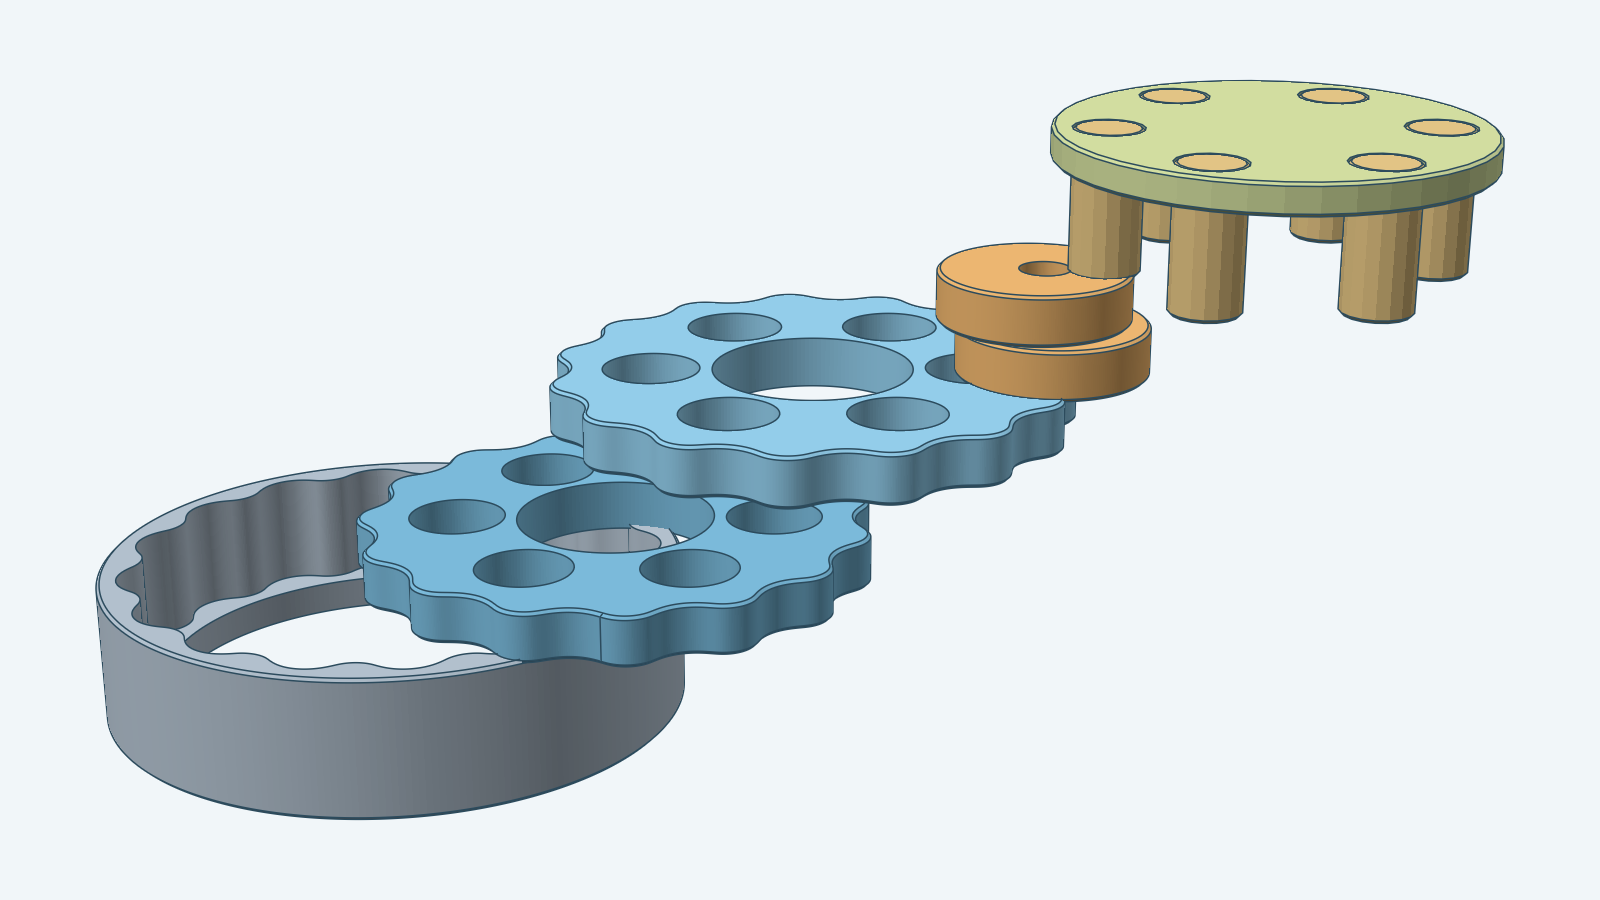
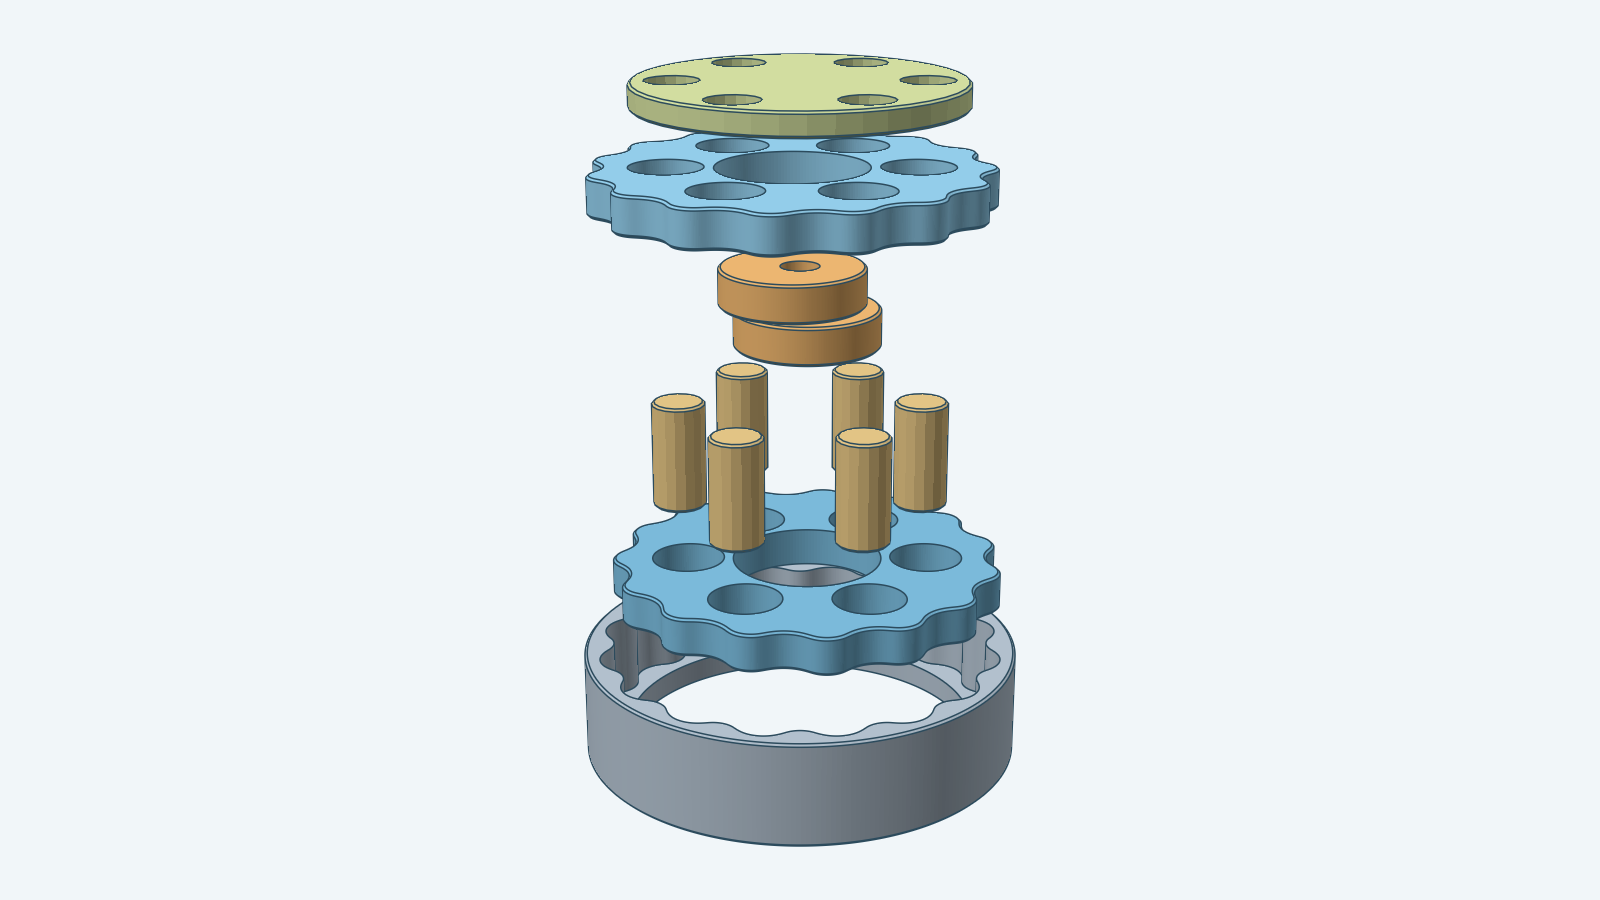
derive cycloidal exploded view from parts set

diff --git a/models/cycloidal/set.go b/models/cycloidal/set.go
@@ -1,0 +1,81 @@
+package cycloidal
+
+import (
+	"context"
+	"fmt"
+
+	"github.com/lestrrat-3d/decad"
+	"github.com/lestrrat-3d/decad/parts"
+	"github.com/lestrrat-3d/r3"
+	"github.com/lestrrat-3d/units"
+)
+
+// explodeGap is how far past touching each part of the exploded view sits from the part it clears.
+const explodeGap = 12.0
+
+// Set returns the drive as a parts.Set over doc, which must be the document Build used with p: every part with its
+// material (all printed in PLA) and the joints between them. A in a joint is the part that goes in and B the part it
+// goes into. The set feeds Drive.Explode.
+func (d Drive) Set(doc *decad.Document, p Params) (*parts.Set, error) {
+	frame, err := placement(p)
+	if err != nil {
+		return nil, fmt.Errorf("cycloidal: placement: %w", err)
+	}
+	set := parts.NewSet(doc)
+	for _, nb := range d.Named() {
+		part := parts.Part{Name: nb.Name, Kind: parts.Manufactured, Body: nb.Body, Material: parts.Material{Name: "PLA"}}
+		if err := set.Add(part); err != nil {
+			return nil, fmt.Errorf("cycloidal: add %s to the parts set: %w", nb.Name, err)
+		}
+	}
+	for _, j := range d.joints(p, frame) {
+		if err := set.Join(j); err != nil {
+			return nil, fmt.Errorf("cycloidal: join %s: %w", j.Name, err)
+		}
+	}
+	return set, nil
+}
+
+// joints lists the connections of the assembled drive with each axis stated in world coordinates, all along the
+// placement normal. Each disc orbits in the housing and on the cam, and each output pin is pressed into its socket in
+// the output plate and passes through every disc's output hole. A disc's fits are wider than a press fit and declare
+// no clearance; the pin's socket declares socketClearance.
+func (d Drive) joints(p Params, frame r3.Frame) []parts.Joint {
+	r := &run{p: p, d: resolve(p), frame: frame}
+	axisAt := func(x, y float64) parts.Axis {
+		point := frame.Origin().Add(frame.U().Scale(x)).Add(frame.V().Scale(y))
+		return parts.Axis{Point: point, Dir: frame.N()}
+	}
+	var js []parts.Joint
+	pin := func(name, a, b string, axis parts.Axis, motion parts.Motion, clearance units.Value) {
+		js = append(js, parts.Joint{Name: name, Kind: parts.PinInBore, A: a, B: b, Axis: &axis, Motion: motion,
+			Clearance: clearance})
+	}
+	none := units.Value{}
+	for i := range d.Discs {
+		disc := DiscName(i)
+		cx, _ := r.discGeometry(i)
+		pin(disc+" in the housing", disc, HousingName, axisAt(0, 0), parts.Turns, none)
+		pin(CamName+" in "+disc, CamName, disc, axisAt(cx, 0), parts.Turns, none)
+	}
+	for j := range d.OutputPins {
+		c := r.outputPinCenter(j)
+		at := axisAt(c.x, c.y)
+		name := OutputPinName(j)
+		pin(name+" in the output plate", name, OutputPlateName, at, parts.Fixed, units.Millimeters(socketClearance))
+		for i := range d.Discs {
+			pin(fmt.Sprintf("%s through %s", name, DiscName(i)), name, DiscName(i), at, parts.Turns, none)
+		}
+	}
+	return js
+}
+
+// Explode pulls the drive apart along its axis with parts.Set.Explode in Decad's derived mode. set must be this
+// drive's Set over the document Build used. The housing stays put. Decad reads from the tessellated bodies which
+// parts stand in the way of which along each direction, takes the parts off in rounds, and lays the rounds out
+// with the round removed last nearest the housing. Every part leaves along the drive's axis and ends explodeGap
+// beyond the parts it clears. The layout is a picture, not a proven assembly sequence.
+func (d Drive) Explode(ctx context.Context, set *parts.Set) (*parts.Exploded, error) {
+	return set.Explode(ctx, parts.WithDerivedExplode(), parts.WithExplodeGround(HousingName),
+		parts.WithExplodeGap(units.Millimeters(explodeGap)))
+}

diff --git a/tools/render/cycloidal.go b/tools/render/cycloidal.go
@@ -12,18 +12,6 @@ import (
 	"github.com/lestrrat-3d/units"
 )
 
-// cycloidalLayout is the exploded layout of the two-disc drive. Each part moves along a staircase 34 mm along
-// X and 16 mm along Z per step.
-var cycloidalLayout = map[string]int{
-	cycloidal.HousingName:     -2,
-	cycloidal.DiscName(0):     -1,
-	cycloidal.DiscName(1):     0,
-	cycloidal.CamName:         1,
-	cycloidal.OutputPlateName: 2,
-}
-
-var cycloidalStep = r3.NewVec(34, 0, 16)
-
 var cycloidalColors = map[string]solidlens.Color{
 	cycloidal.HousingName:     solidlens.RGB(0.38, 0.45, 0.52),
 	cycloidal.DiscName(0):     solidlens.RGB(0.17, 0.42, 0.6),
@@ -91,10 +79,15 @@ func init() {
 	}
 }
 
-func buildCycloidalDrive(ctx context.Context) (cycloidal.Drive, error) {
+// cycloidalParams are the parameters of the two-disc drive every cycloidal image shows.
+func cycloidalParams() cycloidal.Params {
 	params := cycloidal.DefaultParams()
 	params.DiscCount = 2
-	drive, err := cycloidal.Build(ctx, decad.New(decad.WithChainTolerance(units.Millimeters(0.1))), params)
+	return params
+}
+
+func buildCycloidalDrive(ctx context.Context) (cycloidal.Drive, error) {
+	drive, err := cycloidal.Build(ctx, decad.New(decad.WithChainTolerance(units.Millimeters(0.1))), cycloidalParams())
 	if err != nil {
 		return cycloidal.Drive{}, fmt.Errorf("build cycloidal drive: %w", err)
 	}
@@ -121,17 +114,35 @@ func cycloidalBodyModel(ctx context.Context, named cycloidal.NamedBody, offset r
 	}, nil
 }
 
+// cycloidalExplodedOffsets returns how far the exploded view moves each body of drive, by part name. The offsets come
+// from parts.Set.Explode in Decad's derived mode, which Drive.Explode runs.
+func cycloidalExplodedOffsets(ctx context.Context, drive cycloidal.Drive) (map[string]r3.Vec, error) {
+	set, err := drive.Set(drive.Housing.Document(), cycloidalParams())
+	if err != nil {
+		return nil, fmt.Errorf("set up cycloidal parts: %w", err)
+	}
+	layout, err := drive.Explode(ctx, set)
+	if err != nil {
+		return nil, fmt.Errorf("explode cycloidal drive: %w", err)
+	}
+	offsets := make(map[string]r3.Vec, len(layout.Parts))
+	for _, part := range layout.Parts {
+		offsets[part.Name] = part.Offset
+	}
+	return offsets, nil
+}
+
 func cycloidalModels(ctx context.Context, drive cycloidal.Drive, exploded bool) ([]solidlens.Model, error) {
+	var offsets map[string]r3.Vec
+	if exploded {
+		var err error
+		if offsets, err = cycloidalExplodedOffsets(ctx, drive); err != nil {
+			return nil, err
+		}
+	}
 	var models []solidlens.Model
 	for _, named := range drive.Named() {
-		var offset r3.Vec
-		if exploded {
-			step, ok := cycloidalLayout[named.Name]
-			if !ok {
-				step = cycloidalLayout[cycloidal.OutputPlateName]
-			}
-			offset = cycloidalStep.Scale(float64(step))
-		}
+		offset := offsets[named.Name]
 		model, err := cycloidalBodyModel(ctx, named, offset)
 		if err != nil {
 			return nil, err

diff --git a/models/cycloidal/set_test.go b/models/cycloidal/set_test.go
@@ -1,0 +1,50 @@
+package cycloidal_test
+
+import (
+	"math"
+	"testing"
+
+	"github.com/lestrrat-3d/decad-gallery/models/cycloidal"
+	"github.com/lestrrat-3d/decad/parts"
+	"github.com/stretchr/testify/require"
+)
+
+// The derived explode moves every part but the housing along the drive axis, gives every output pin an offset, and
+// leaves no two parts sharing space.
+func TestExplode(t *testing.T) {
+	for _, discs := range []int{1, 2} {
+		p := cycloidal.DefaultParams()
+		p.DiscCount, p.DiscGap = discs, cycloidal.MinClearance
+		doc := chainDocument()
+		drive, err := cycloidal.Build(t.Context(), doc, p)
+		require.NoError(t, err)
+		set, err := drive.Set(doc, p)
+		require.NoError(t, err)
+		require.Len(t, set.Parts(), len(drive.Named()))
+		layout, err := drive.Explode(t.Context(), set)
+		require.NoError(t, err)
+		require.Equal(t, cycloidal.HousingName, layout.Ground)
+		require.True(t, layout.Derived, "Decad derives the removal order")
+		require.Empty(t, layout.Overlaps)
+
+		byName := map[string]parts.ExplodedPart{}
+		for _, part := range layout.Parts {
+			byName[part.Name] = part
+			require.GreaterOrEqual(t, part.Depth, 0, "%s is joined to the housing", part.Name)
+		}
+		require.Len(t, byName, len(drive.Named()))
+		require.Zero(t, byName[cycloidal.HousingName].Offset.Len(), "the housing stays put")
+		for _, nb := range drive.Named() {
+			if nb.Name == cycloidal.HousingName {
+				continue
+			}
+			off := byName[nb.Name].Offset
+			require.Positive(t, off.Len(), "%s moves", nb.Name)
+			require.InDelta(t, off.Len(), math.Abs(off.Z), 1e-9, "%s moves along the axis", nb.Name)
+		}
+		for i := 1; i < len(drive.OutputPins); i++ {
+			require.InDelta(t, byName[cycloidal.OutputPinName(0)].Offset.Z, byName[cycloidal.OutputPinName(i)].Offset.Z,
+				0.01, "output pins share one offset")
+		}
+	}
+}

diff --git a/docs/rendering.md b/docs/rendering.md
@@ -115,7 +115,8 @@ go -C tools/render run . -model bevelgear -shot readme -out ../../models/bevelge
 ```
 
 The `cycloidal/hero` preset renders the assembled two-disc drive. The `cycloidal/exploded` preset pulls the
-housing, both rotor discs, cam, plate and pins apart along a staircase. The `readme` shot writes the
+housing, both rotor discs, cam, plate and pins apart along the drive axis in Decad's derived explode mode (`parts.Set.Explode`, with the
+housing as ground). The `readme` shot writes the
 480 × 270 pixel `index.png`, the 1600 × 900 pixel `hero.png` and `exploded.png`, three 1200 × 675 pixel
 assembled views (`assembled-output.png`, `assembled-input.png`, `assembled-side.png`), and a 480 × 270 pixel
 image in `parts/` for every named body:

diff --git a/models/cycloidal/README.md b/models/cycloidal/README.md
@@ -19,7 +19,7 @@ The two-disc drive from the output end, input end and side.
 
 ## Exploded
 
-![The two-disc cycloidal drive pulled apart along a staircase: housing, two rotor discs, cam, output plate and pins](images/exploded.png)
+![The two-disc cycloidal drive pulled apart along its axis in Decad's derived order: housing, rotor disc, output pins, cam, rotor disc and output plate](images/exploded.png)
 
 ## Parts
 
